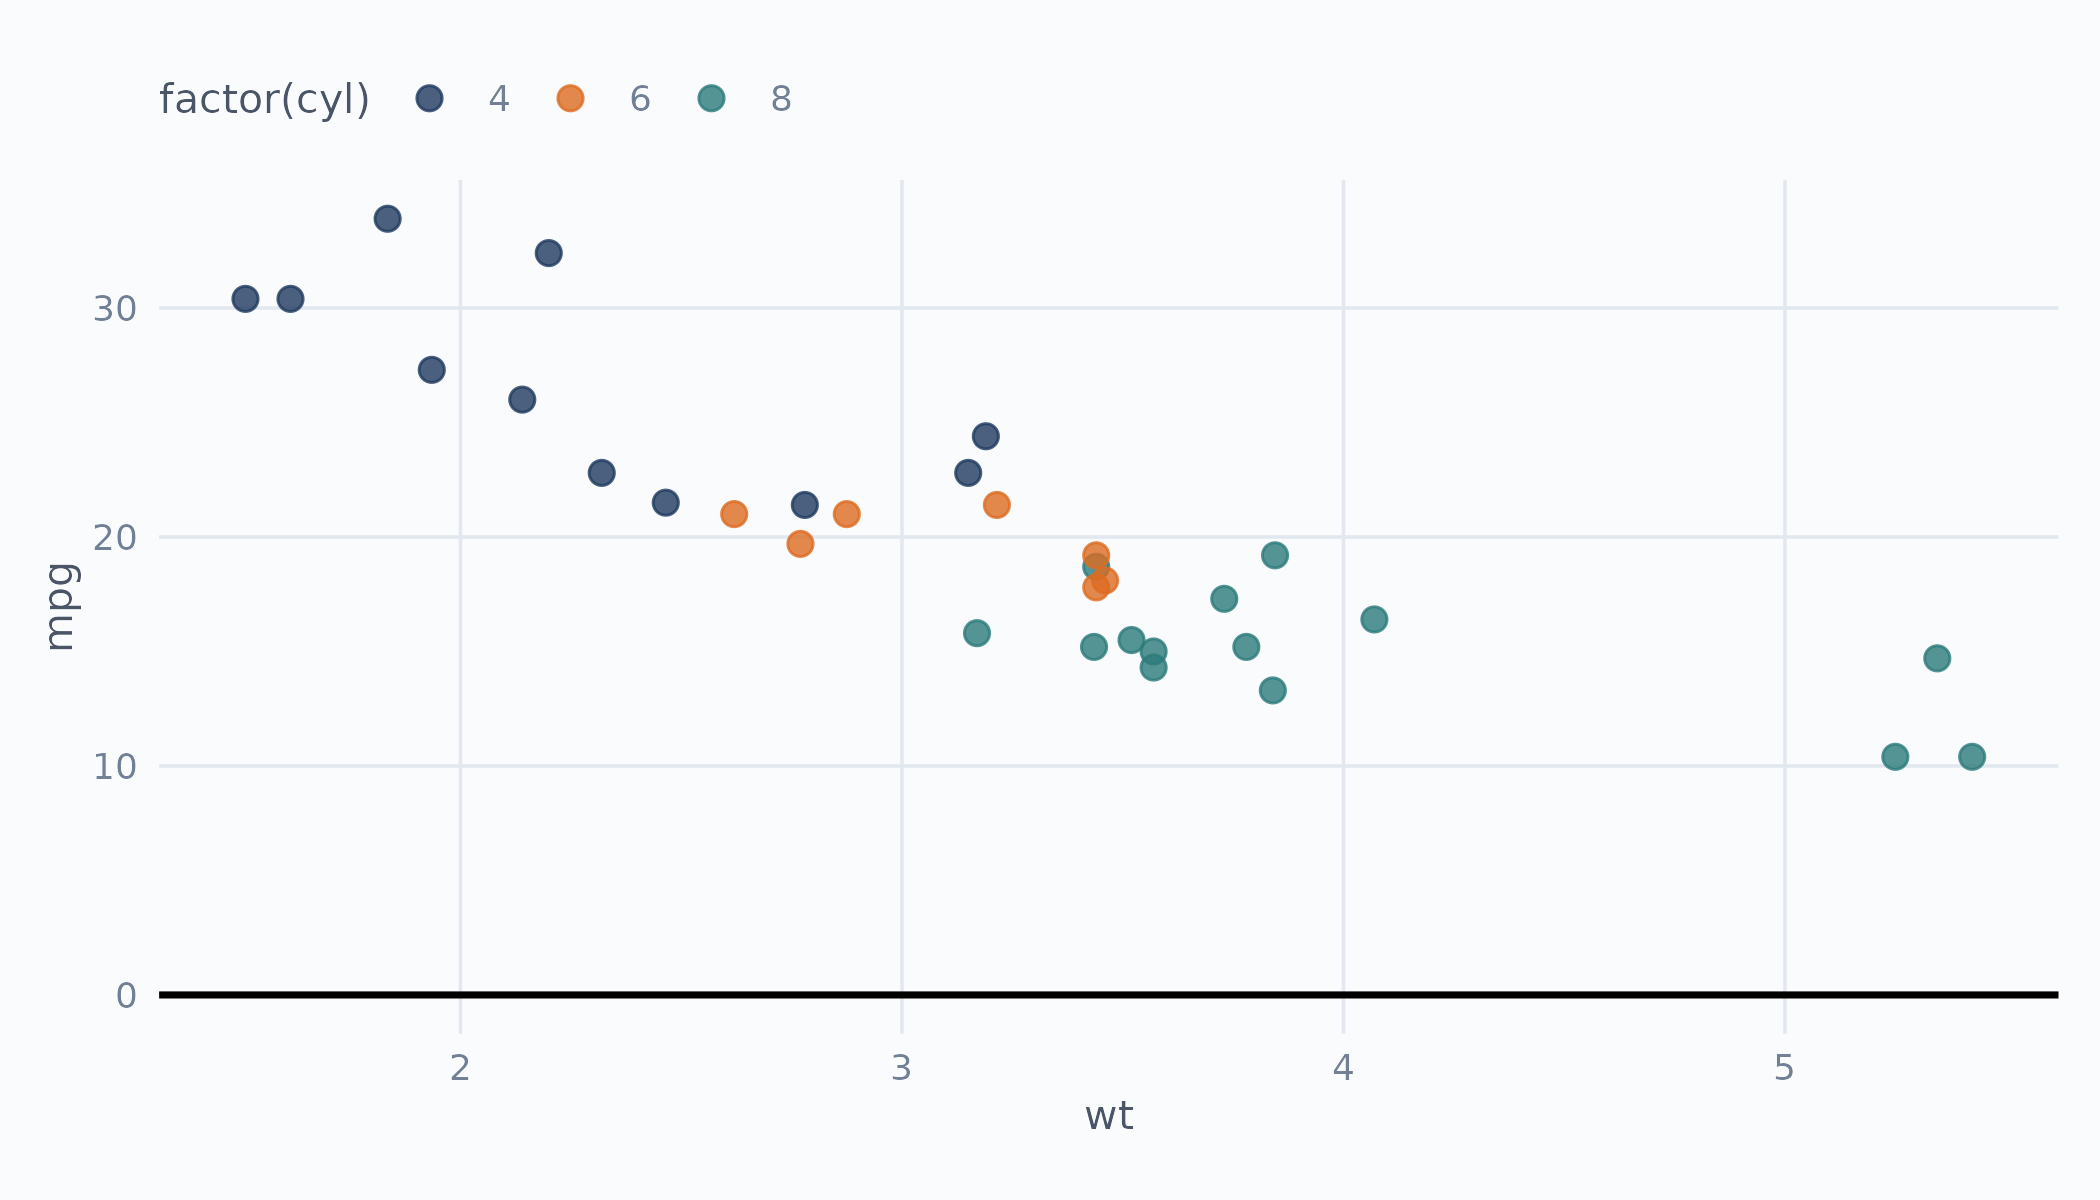
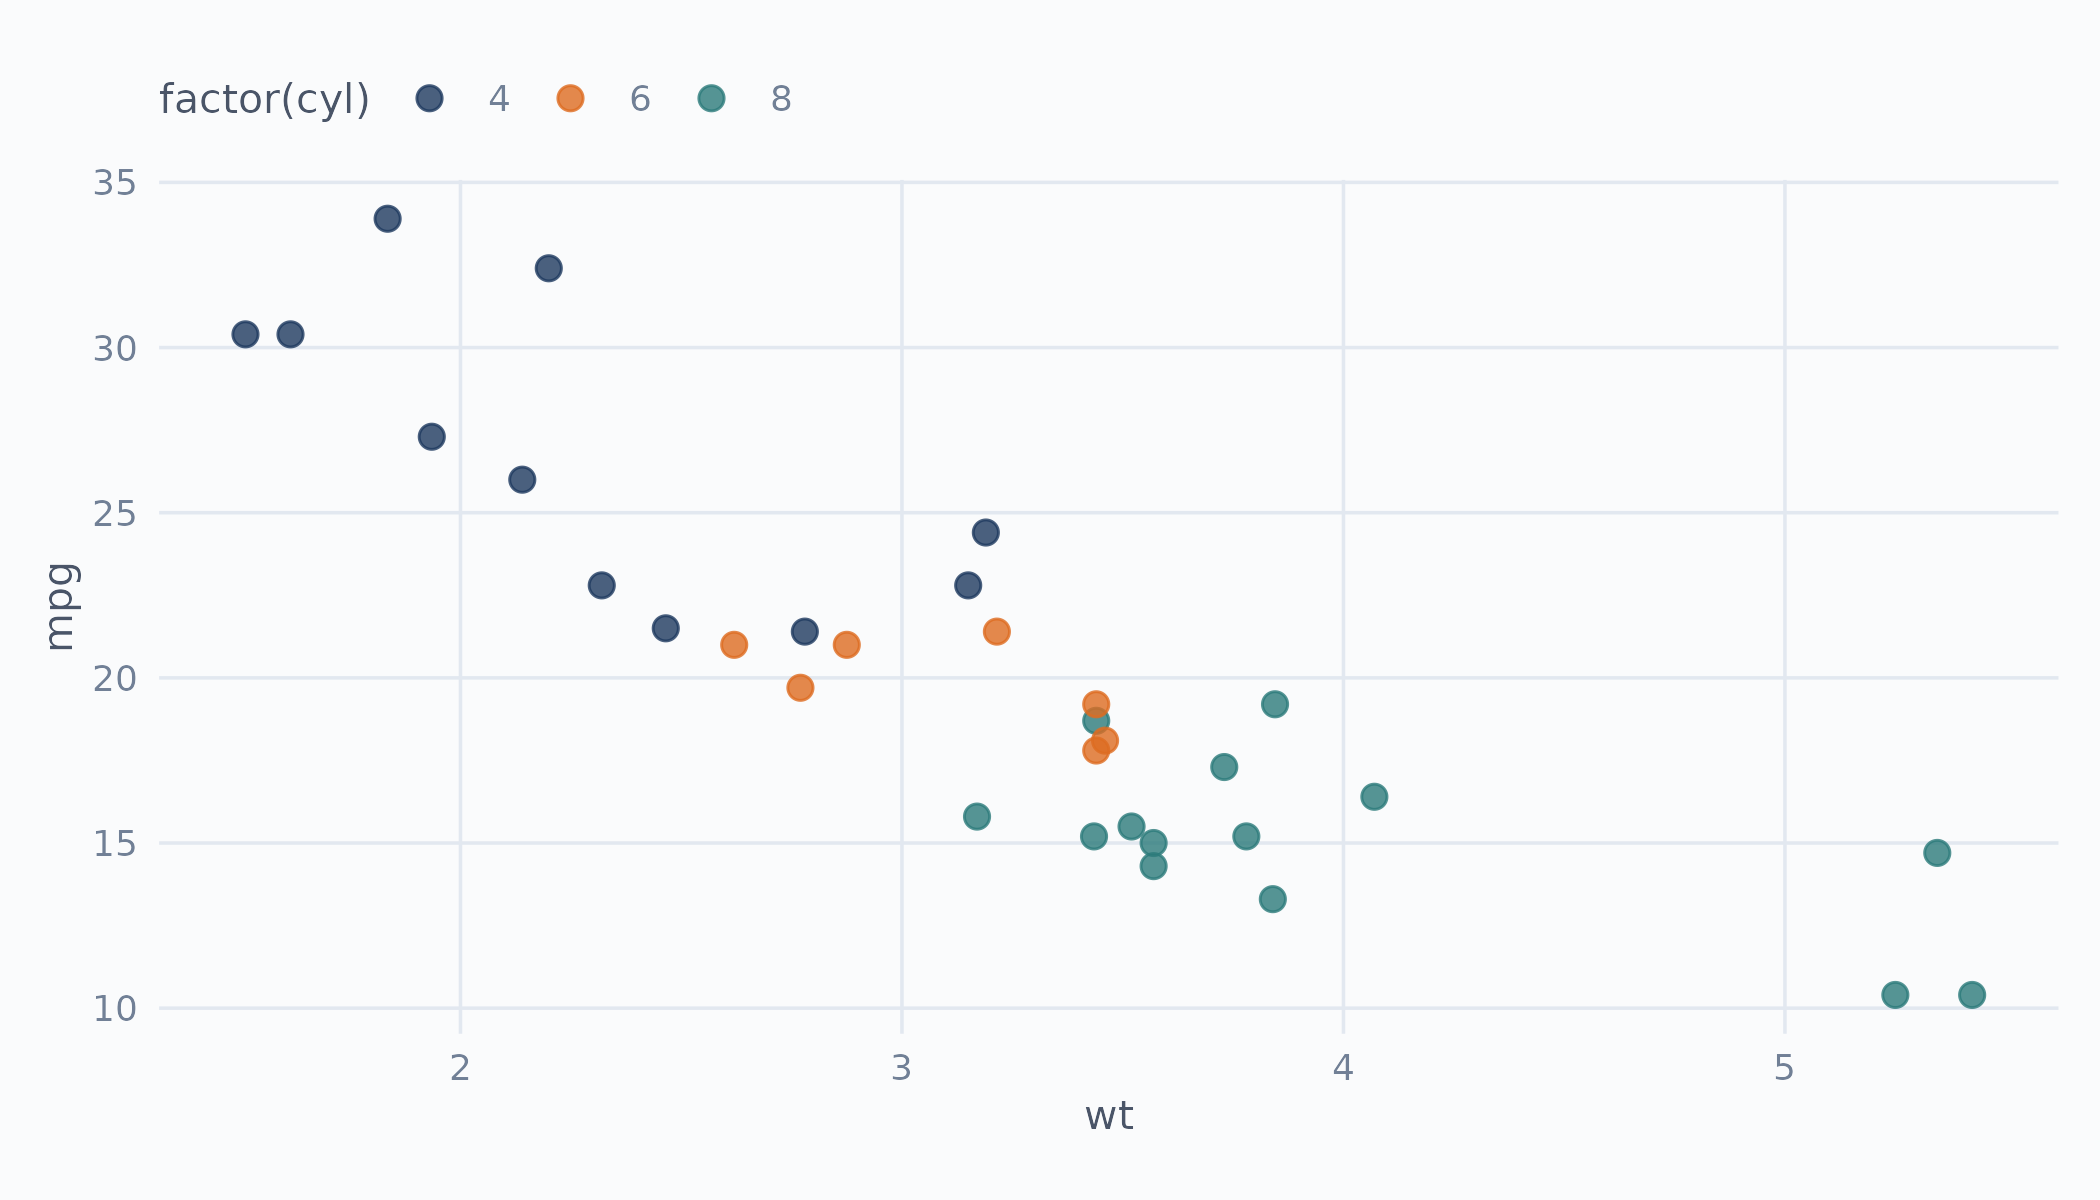
Deploying to gh-pages from @ viniciusoike/ekioplot@5af3fbf8758c73a8c4873ce3446fc7f3ff63808b 🚀

diff --git a/index.html b/index.html
@@ -16,8 +16,8 @@
 <script src="deps/bootstrap-5.3.8/bootstrap.bundle.min.js"></script><link href="deps/font-awesome-6.5.2/css/all.min.css" rel="stylesheet">
 <link href="deps/font-awesome-6.5.2/css/v4-shims.min.css" rel="stylesheet">
 <script src="deps/headroom-0.11.0/headroom.min.js"></script><script src="deps/headroom-0.11.0/jQuery.headroom.min.js"></script><script src="deps/bootstrap-toc-1.0.1/bootstrap-toc.min.js"></script><script src="deps/clipboard.js-2.0.11/clipboard.min.js"></script><script src="deps/search-1.0.0/autocomplete.jquery.min.js"></script><script src="deps/search-1.0.0/fuse.min.js"></script><script src="deps/search-1.0.0/mark.min.js"></script><!-- pkgdown --><script src="pkgdown.js"></script><meta property="og:title" content="EKIO Visual Identity System for R Data Visualization">
-<meta name="description" content="A ggplot2 implementation of EKIO's visual identity for data visualization. Professional themes, curated color palettes, and scale functions for ggplot2 and gt tables. Includes high-level recipe functions for common chart types.">
-<meta property="og:description" content="A ggplot2 implementation of EKIO's visual identity for data visualization. Professional themes, curated color palettes, and scale functions for ggplot2 and gt tables. Includes high-level recipe functions for common chart types.">
+<meta name="description" content="A ggplot2 implementation of EKIOs visual identity for data visualization. Professional themes, curated color palettes, and scale functions for ggplot2 and gt' tables. Includes high-level recipe functions for common chart types.">
+<meta property="og:description" content="A ggplot2 implementation of EKIOs visual identity for data visualization. Professional themes, curated color palettes, and scale functions for ggplot2 and gt' tables. Includes high-level recipe functions for common chart types.">
 <meta property="og:image" content="https://viniciusoike.github.io/ekioplot/logo.png">
 </head>
 <body>

diff --git a/reference/ekio_scatterplot.html b/reference/ekio_scatterplot.html
@@ -49,7 +49,7 @@
 <span>  color <span class="op">=</span> <span class="cn">NULL</span>,</span>
 <span>  size <span class="op">=</span> <span class="cn">NULL</span>,</span>
 <span>  palette <span class="op">=</span> <span class="cn">NULL</span>,</span>
-<span>  add_zero <span class="op">=</span> <span class="cn">TRUE</span>,</span>
+<span>  add_zero <span class="op">=</span> <span class="cn">FALSE</span>,</span>
 <span>  add_smooth <span class="op">=</span> <span class="cn">FALSE</span>,</span>
 <span>  smooth_method <span class="op">=</span> <span class="st">"lm"</span>,</span>
 <span>  point_size <span class="op">=</span> <span class="fl">2.5</span>,</span>
@@ -87,7 +87,7 @@
 
 
 <dt id="arg-add-zero">add_zero<a class="anchor" aria-label="anchor" href="#arg-add-zero"></a></dt>
-<dd><p>Logical. Add horizontal line at y=0 (default: TRUE)</p></dd>
+<dd><p>Logical. Add horizontal line at y=0 (default: FALSE)</p></dd>
 
 
 <dt id="arg-add-smooth">add_smooth<a class="anchor" aria-label="anchor" href="#arg-add-smooth"></a></dt>

diff --git a/reference/ips_brasil.html b/reference/ips_brasil.html
@@ -117,7 +117,7 @@ with one row per municipality-indicator combination.</p>
     <div class="section level2">
     <h2 id="references">References<a class="anchor" aria-label="anchor" href="#references"></a></h2>
     <p>Imazon. (2025). Indice de Progresso Social Brasil 2025.
-<a href="https://imazon.org.br/indice_de_progresso_social_brasil_2025/" class="external-link">https://imazon.org.br/indice_de_progresso_social_brasil_2025/</a></p>
+<a href="https://imazon.org.br/categorias/indice-de-progresso-social/" class="external-link">https://imazon.org.br/categorias/indice-de-progresso-social/</a></p>
     </div>
 
     <div class="section level2">

diff --git a/reference/ekio_scatterplot.md b/reference/ekio_scatterplot.md
@@ -12,7 +12,7 @@ ekio_scatterplot(
   color = NULL,
   size = NULL,
   palette = NULL,
-  add_zero = TRUE,
+  add_zero = FALSE,
   add_smooth = FALSE,
   smooth_method = "lm",
   point_size = 2.5,
@@ -49,7 +49,7 @@ ekio_scatterplot(
 
 - add_zero:
 
-  Logical. Add horizontal line at y=0 (default: TRUE)
+  Logical. Add horizontal line at y=0 (default: FALSE)
 
 - add_smooth:
 

diff --git a/reference/ips_brasil.md b/reference/ips_brasil.md
@@ -102,7 +102,7 @@ municipality-indicator combination.
 ## References
 
 Imazon. (2025). Indice de Progresso Social Brasil 2025.
-<https://imazon.org.br/indice_de_progresso_social_brasil_2025/>
+<https://imazon.org.br/categorias/indice-de-progresso-social/>
 
 ## Examples
 